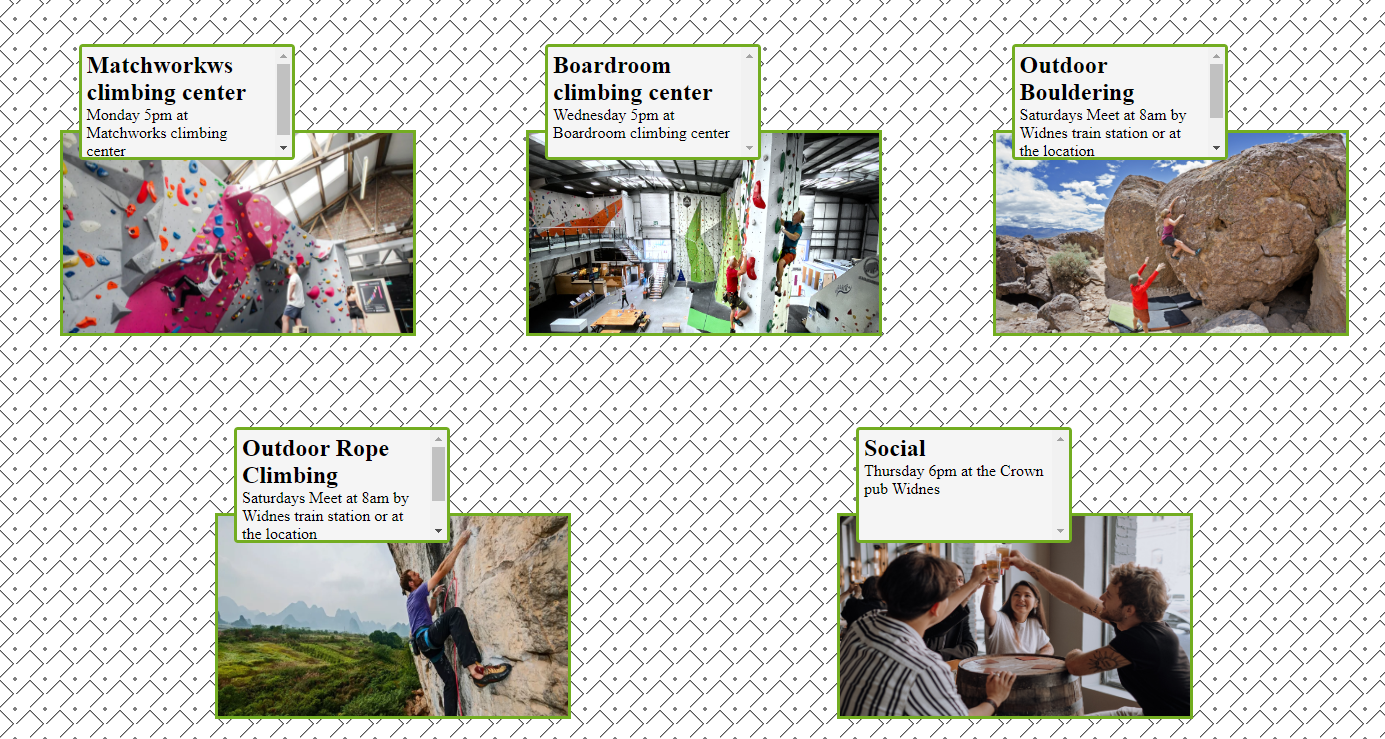
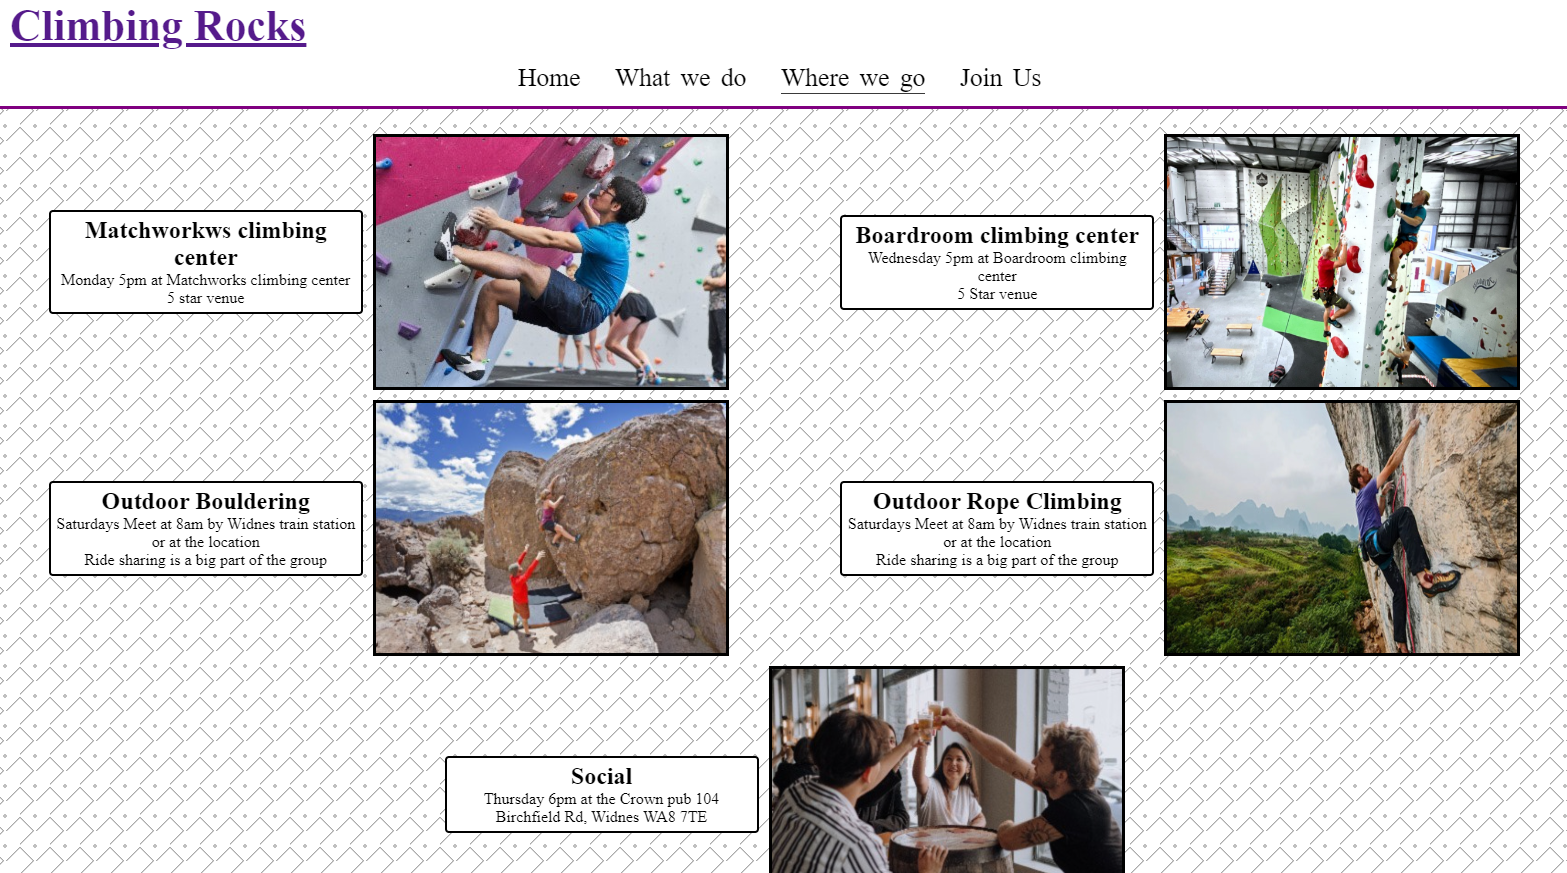
updated readme.md

diff --git a/README.md b/README.md
@@ -1,11 +1,18 @@
 # Widnes Climbers
 
-Widnes Climbers is a site to help people in Widnes come together and go climbing together in the surrounding area, inside and outside. Its aim is for climbers of Widnes to have an easy place to join the group and know where people are. The site will target new and experienced climbers who would like company while they climb or just want to get into the sport and need encouragement.
+Widnes Climbers is a site to help people in Widnes come together and go climbing together in the surrounding area both indoors and outdoors.
+The puspose is to be simple in informing people that there is a group of people who welcome others to join them.
 
-Widnes Climbers will explain the different types of climbing the group does and when they meet. It will also have a sign up newsletter with questions about what type of climbing the visitor is interested in, so they can be informed on when and where that type is and be notified of changes.
+Its aim is for climbers of Widnes to join the social medias or sign up to the newsletter if they wish.
+The site is designed to present the opurtunity to join a group that is simple and friendly.
+The site will target new and experienced climbers who would like company while they climb or just want to get into the sport and need encouragement.
+
+Widnes Climbers will explain the different types of climbing the group does and when they meet. 
+It will have a sign up newsletter with questions about what type of climbing the visitor is interested in, so they can be informed on when and where that type is 
+and be notified of changes.
  
 
-![Responsice Mockup](assets/images/responsiveness-readme.png)
+![Responsice Mockup](assets/images/responsiveness-readme.jpg)
 
 ## Features 
 
@@ -20,17 +27,15 @@ Widnes Climbers will explain the different types of climbing the group does and 
 
 ![Nav Bar](assets/images/navigation-mock-up.png)
 
-- __The landing page image__
+- __The landing page__
 
   - The landing includes a photograph of beautiful scenery framed by rock and someone enjoying the view.
-  - The image invokes the feeling of adventure and beauty that many climbers enjoy, while the framing rock suggests this website is their portal to that feeling they seek.
+  - Landing page has text detailing the purpose of the website to the user
   - There is overlaying text to tell visitors they are in the right place and to encourage visitor to begin scrolling down.
-
-![Landing Page](https://github.com/lucyrush/readme-template/blob/master/media/love_running_landing.png)
 
 - __What We Do page__
 
-  - This section will allow the user to see exactly when the meetups will happen, where they will be located and how long the run will be in kilometers. 
+  - This section will allow the user to see exactly when the meetups will happen, where they will be located and what we are doing that day. 
   - This section will be updated with additional climbing types if the group expands.
   - This section is intended to be a very short incomplete education.
 
@@ -67,8 +72,14 @@ Widnes Climbers will explain the different types of climbing the group does and 
 
 ## Testing 
 
-Widnes Climbers was built for mobile screen sizes and then tested to see how it expands to fill a window with every meaningful change. This was done by dragging a browser window to see the changes happen.
+Widnes Climbers was built for mobile screen sizes and then tested to see how it expands to fill a window with every meaningful change. This was done using the inspect feature mostly
+
 It was important the navigation is always accessible on every screen size.
+
+The presentation of text on pages was found to be difficult to read.
+This was fixed by making text boxes bigger and away from images to make reading easier.
+
+The background was found to be too distracting in testing & was made to have a higher opacity.
 
 The footer was found to overlap content or cover the entire page. This was fixed with code from developer.mozilla.org (see credits, 'Footer-credit')
 
@@ -76,14 +87,6 @@ Each pages navigation is able to navigate to all pages. tested with use.
 
 
 ------
-In this section, you need to convince the assessor that you have conducted enough testing to legitimately believe that the site works well. Essentially, in this part you will want to go over all of your project’s features and ensure that they all work as intended, with the project providing an easy and straightforward way for the users to achieve their goals.
-
-In addition, you should mention in this section how your project looks and works on different browsers and screen sizes.
-
-You should also mention in this section any interesting bugs or problems you discovered during your testing, even if you haven't addressed them yet.
-
-If this section grows too long, you may want to split it off into a separate file and link to it from here.
-
 
 ### Validator Testing 
 
